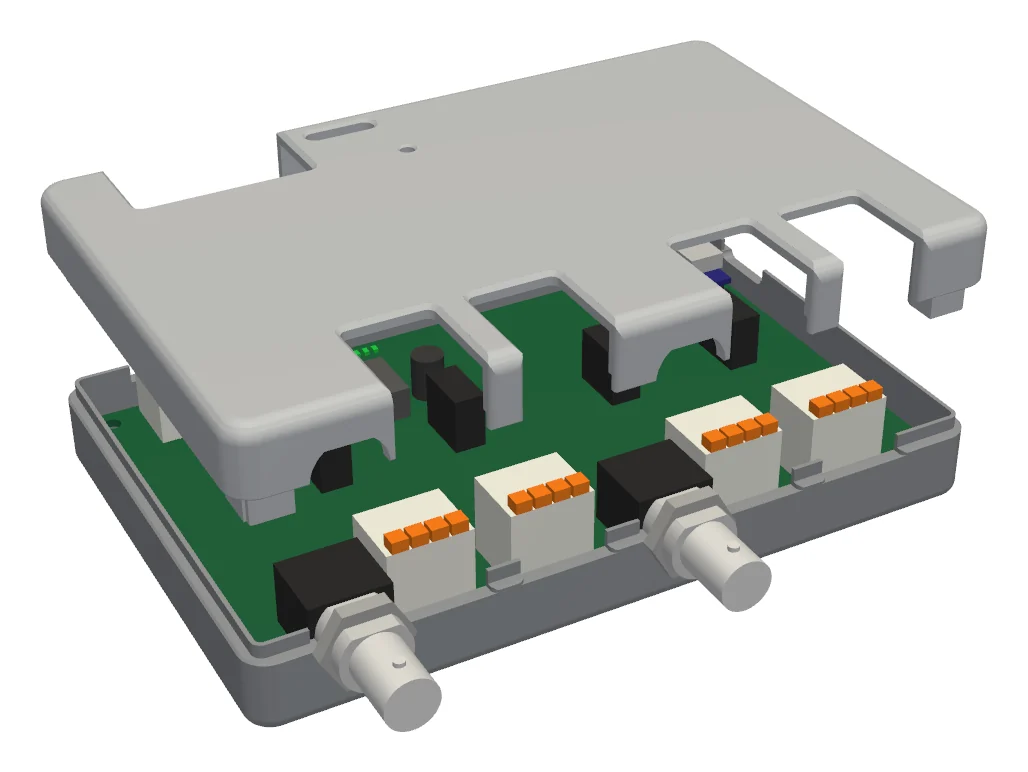
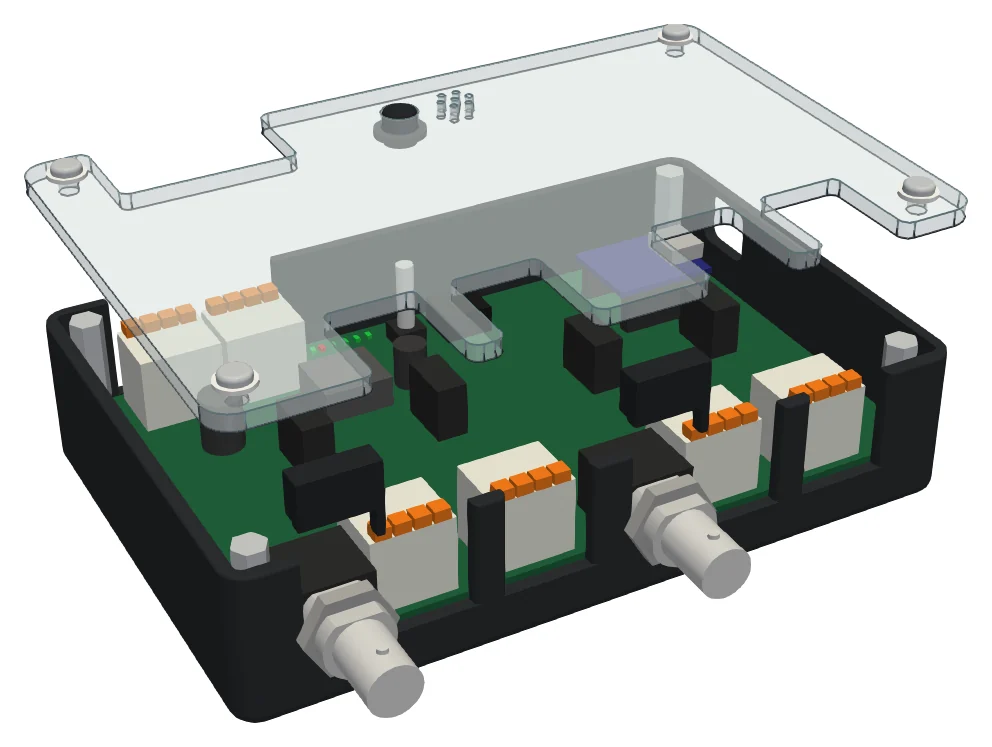
Fertigation page: Rev B (E-stop terminal, button, buzzer, red/green channel lights, coin-cell clock, termination from the app), clear-lid cases

diff --git a/docs/fertigation/fio-8.html b/docs/fertigation/fio-8.html
@@ -139,7 +139,7 @@ footer .logo { height: 28px }
 <div class="wrap">
   <div class="top brand">
     <img class="logo logo-light" src="img/lwv-logo.png" alt="Legacy West Ventures">
-    <span class="rev">Rev A · November 2026</span>
+    <span class="rev">Rev B · November 2026</span>
   </div>
 
   <div class="hero">
@@ -148,7 +148,7 @@ footer .logo { height: 28px }
     <p class="lead">The FIO-8 drives up to eight nutrient dosing pumps from one flow meter. Ten times a second it turns the recipe into a speed for every pump. Each pump output is electrically isolated, and the board stops dosing on its own the moment a reading or a wire looks wrong. It connects to GCU Cloud over Wi-Fi on its own, can report to an on-site GCU Manager, and is set up and run from the GCU Setup app over Bluetooth. Its RS-485 port reads and powers the water-quality probes.</p>
     <figure class="hero-fig">
       <img src="img/fio8-3d-hero.webp" width="1800" height="1107" alt="3D render of the FIO-8 board: a green circuit board with grey push-in terminal blocks along the front and back edges, eight output channels along the front, and black power modules">
-      <figcaption>Rev A, rendered from the production layout with each part's manufacturer 3D model. Pump outputs run along the front edge, field inputs along the back, and an M3 mounting hole sits in each corner.</figcaption>
+      <figcaption>Rendered from the Rev A layout with each part's manufacturer 3D model (Rev B adds the E-stop terminal, the button, the buzzer and the coin-cell clock). Pump outputs run along the front edge, field inputs along the back, and an M3 mounting hole sits in each corner.</figcaption>
     </figure>
   </div>
 
@@ -336,8 +336,9 @@ footer .logo { height: 28px }
 
   <!-- 4 -->
   <section id="safety">
-    <header><span class="kicker">Built to stop safely</span><h2>Two independent stops on every pump</h2></header>
+    <header><span class="kicker">Built to stop safely</span><h2>Two independent stops on every pump, and a stop button that needs no software</h2></header>
     <p class="prose">A pump stops when its 4–20 mA signal drops to 0 mA, and again when the contactor that feeds the pumps' power opens. The contactor is held in by a hardware watchdog. The processor has to keep sending it pulses; if the firmware stops for any reason, the outputs and the contactor drop within about a third of a second with no software involved.</p>
+    <p class="prose">An emergency-stop terminal sits in the same chain. Wire a normally closed stop button to it, or leave the factory link in place. Opening the loop (the button pressed, a wire cut, the terminal empty) breaks the watchdog's pulse path in hardware, so both stops drop exactly as if the processor had stopped, and the firmware cannot hold anything on. The board then sounds its buzzer, shows the stop on its lights and reports it.</p>
     <figure class="diagram">
       <div class="scroll">
       <svg viewBox="0 0 1000 300" role="img" aria-label="Safety chain: the processor sends keep-alive pulses to a hardware watchdog. The watchdog holds two things up: the output driver enable, which feeds the eight pump outputs, and the K1 contactor coil, which feeds pump power. If the pulses stop, both drop in about 0.3 seconds: outputs go to 0 mA and pump power goes off.">
@@ -360,15 +361,17 @@ footer .logo { height: 28px }
         <rect class="box-stop" x="800" y="40" width="172" height="56" rx="10"/><text class="t-stop" x="886" y="64" text-anchor="middle" font-size="13">STOP 1</text><text class="t-s" x="886" y="84" text-anchor="middle">all outputs to 0 mA</text>
         <rect class="box-stop" x="800" y="204" width="172" height="56" rx="10"/><text class="t-stop" x="886" y="228" text-anchor="middle" font-size="13">STOP 2</text><text class="t-s" x="886" y="248" text-anchor="middle">pump power off</text>
         <text class="t-s" x="369" y="238" text-anchor="middle">pulses stop → both drop in ≈ 0.3 s</text>
+        <text class="t-s" x="369" y="262" text-anchor="middle">an open E-stop loop breaks the pulse path</text>
         <text class="t-s" x="105" y="216" text-anchor="middle">any stop rule in the</text>
         <text class="t-s" x="105" y="234" text-anchor="middle">firmware drops both too</text>
       </svg>
       </div>
-      <figcaption>The firmware can stop the pumps; the watchdog makes sure a stalled or crashed processor stops them too.</figcaption>
+      <figcaption>The firmware can stop the pumps; the watchdog makes sure a stalled or crashed processor stops them too, and so does an open E-stop loop.</figcaption>
     </figure>
     <table class="tbl">
       <thead><tr><th>If this happens</th><th>The board</th></tr></thead>
       <tbody>
+        <tr><td>Someone presses the E-stop, or its wire is cut</td><td>Every output goes to 0 mA and the contactor drops within about 0.3 s, in hardware. The buzzer sounds and the stop is reported. Dosing resumes only when the loop is closed and the stop is cleared.</td></tr>
         <tr><td>The processor hangs or restarts</td><td>The watchdog drops the contactor and every output within about 0.3 s. After a crash restart, dosing stays off until someone clears the fault.</td></tr>
         <tr><td>24 V power is lost</td><td>The contactor opens and the outputs go dead. When power returns, the board picks up again from its saved settings.</td></tr>
         <tr><td>Wi-Fi or the internet drops</td><td>Keeps dosing from the saved recipe and sends what it logged when it reconnects. A site can choose to stop after a set outage instead.</td></tr>
@@ -404,7 +407,7 @@ footer .logo { height: 28px }
       <div class="edge bottom" aria-hidden="true"><span style="--x:18.02%">PUMP 1·2</span><span style="--x:36.35%">PUMP 3·4</span><span style="--x:50.36%">CONTACTOR · FLUSH</span><span style="--x:64.02%">PUMP 5·6</span><span style="--x:82.34%">PUMP 7·8</span></div>
       <ol class="legend">
         <li><i>1</i><span><b>Power in.</b> Fuse, reverse-polarity guard, surge clamp and the 5 V supply for the board.</span></li>
-        <li><i>2</i><span><b>RS-485 sensor port.</b> The board is the bus master; 24 V for the probes on its own fuse, and a jumper for the 120 Ω termination.</span></li>
+        <li><i>2</i><span><b>RS-485 sensor port.</b> The board is the bus master; 24 V for the probes on its own fuse. The 120 Ω termination is switched on or off from the app, not with a jumper.</span></li>
         <li><i>3</i><span><b>Input isolation.</b> Optocouplers for the eight dry-contact inputs and the two flow meters.</span></li>
         <li><i>4</i><span><b>Processor.</b> A plug-in Seeed XIAO ESP32-S3 with Wi-Fi and Bluetooth, in two sockets. Its antenna lead runs to the case wall.</span></li>
         <li><i>5</i><span><b>Hardware watchdog</b> that holds the contactor and the output driver.</span></li>
@@ -422,6 +425,7 @@ footer .logo { height: 28px }
         <tr><td>INPUTS 1–4, 5–8</td><td class="mono">1 2 3 4</td><td>Dry contacts: tank floats, a valve-open contact (input 8), door or alarm switches.</td></tr>
         <tr><td>IN COM</td><td class="mono">+24 +24</td><td>The common side of the dry contacts, wetted from the board at 24 V.</td></tr>
         <tr><td>FLOW A · B</td><td class="mono">+ S G  + S G</td><td>Two pulse-output flow meters, powered from the board at 24 V.</td></tr>
+        <tr><td>E-STOP</td><td class="mono">+24 RET</td><td>A normally closed emergency-stop button (or the factory wire link). An open loop stops every pump in hardware.</td></tr>
         <tr><td>PUMP 1·2 … 7·8</td><td class="mono">+ − + −</td><td>The 4–20 mA speed inputs of the dosing pumps, two pumps per block.</td></tr>
         <tr><td>CONTACTOR · FLUSH</td><td class="mono">K1 K1 K2 K2</td><td>K1 switches the 24 V coil of the contactor that feeds the pumps' power. K2 switches the flush or drain valve (60 V, 2 A, AC or DC).</td></tr>
       </tbody>
@@ -458,9 +462,26 @@ footer .logo { height: 28px }
     <div class="note prose"><b>When the network drops</b><span>The recipe, calibration and limits live in the board's own memory, so a feed carries on through a Wi-Fi or internet outage and the records catch up when it reconnects. On site, the GCU Setup app reaches the board over Bluetooth with no network at all. Firmware updates come over Wi-Fi from GCU Cloud.</span></div>
   </section>
 
+  <!-- 6b -->
+  <section id="onboard">
+    <header><span class="kicker">At the board</span><h2>A button, a buzzer and a light for every pump</h2></header>
+    <p class="prose">The board shows what it is doing without a phone. Each pump channel has a red/green light, a buzzer calls attention to anything that needs a person, and one button covers the jobs you do standing in front of it. A real-time clock with its own coin cell keeps every log record correctly time-stamped through a power or network outage.</p>
+    <table class="tbl">
+      <thead><tr><th>Signal</th><th>Meaning</th></tr></thead>
+      <tbody>
+        <tr><td>Channel light green</td><td>That pump is dosing. Blinking: calibration or a cup test is running.</td></tr>
+        <tr><td>Channel light red</td><td>That channel has a fault, such as an open pump loop. Blinking: it needs attention, such as a calibration that is due.</td></tr>
+        <tr><td>Buzzer</td><td>E-stop opened, dosing stopped by a safety rule, a tank float low, a probe fault. Silenced from the app or with a short press of the button.</td></tr>
+        <tr><td>Button, short press</td><td>Identifies the board (the lights chase, one beep) and opens the Bluetooth pairing window for 10 minutes.</td></tr>
+        <tr><td>Button, held 3 s</td><td>Stops dosing locally until it is cleared.</td></tr>
+        <tr><td>Button, held 10 s</td><td>Resets the network settings; three beeps confirm.</td></tr>
+      </tbody>
+    </table>
+  </section>
+
   <!-- 7 -->
   <section id="specs">
-    <header><span class="kicker">Specifications</span><h2>Rev A at a glance</h2></header>
+    <header><span class="kicker">Specifications</span><h2>Rev B at a glance</h2></header>
     <table class="tbl">
       <tbody>
         <tr><td>Power</td><td>24 V DC ±10 %, about 0.3 A plus sensor power. Fused, reverse-polarity protected, surge clamped.</td></tr>
@@ -470,11 +491,14 @@ footer .logo { height: 28px }
         <tr><td>Contact inputs</td><td>8 dry contacts, 24 V wetting, optocoupled.</td></tr>
         <tr><td>Contacts out</td><td>2 solid-state contacts, 60 V, 2 A, AC or DC, each fused, with contact feedback. K1 is held by the hardware watchdog.</td></tr>
         <tr><td>Network</td><td>Wi-Fi to GCU Cloud and the GCU Manager; Bluetooth LE for the GCU Setup app. Firmware updates over Wi-Fi.</td></tr>
-        <tr><td>Sensor port</td><td>RS-485, Modbus RTU master, 24 V sensor supply on its own 0.5 A fuse, jumper for the 120 Ω termination.</td></tr>
+        <tr><td>Sensor port</td><td>RS-485, Modbus RTU master, 24 V sensor supply on its own 0.5 A fuse, 120 Ω termination switched from the app.</td></tr>
+        <tr><td>Emergency stop</td><td>Terminal for a normally closed stop loop, optocoupled; opening it drops every output and the contactor in hardware.</td></tr>
+        <tr><td>On the board</td><td>A push button, a buzzer, a red/green light per pump channel and six status lights.</td></tr>
+        <tr><td>Clock</td><td>Real-time clock with a coin-cell backup (CR1220), set from the network or the phone.</td></tr>
         <tr><td>Processor</td><td>Plug-in Seeed XIAO ESP32-S3 (Wi-Fi, Bluetooth LE), antenna lead to the case wall.</td></tr>
         <tr><td>Board</td><td>132 × 84 mm, 4 layers, four M3 mounting holes, 26 test points.</td></tr>
         <tr><td>Terminals</td><td>Push-in terminal blocks, 3.5 mm pitch.</td></tr>
-        <tr><td>Enclosure</td><td>DIN-rail case with the I/O labels printed on it.</td></tr>
+        <tr><td>Enclosure</td><td>Black DIN-rail case with a clear cover; the I/O labels go on as stickers.</td></tr>
       </tbody>
     </table>
     <div class="note prose"><b>Water quality on the sensor port</b><span>The companion FIO-WQ board, below, measures pH and EC on the board itself, each channel in its own isolated circuit, and plugs into the FIO-8's RS-485 port at its own address on the FIO-8's 24 V.</span></div>
@@ -486,7 +510,7 @@ footer .logo { height: 28px }
     <p class="lead">The FIO-WQ reads two pH electrodes and two conductivity cells, each with its own temperature probe, and hands the readings to the FIO-8 over one four-wire cable. Each of the four measurement circuits is electrically isolated from the others and from the bus, so probes in the same water do not disturb each other and a wiring fault on one stays on one. It checks its own electrodes before it trusts them. The board itself stays dry on the DIN rail: the pH electrodes and conductivity cells sit in the water line, in a tee or a flow cell, and their cables run back to the jacks and terminals.</p>
     <figure class="hero-fig">
       <img src="img/fiowq-3d-hero.webp" width="1222" height="771" alt="3D render of the FIO-WQ board: a green circuit board with two BNC jacks and four push-in terminal blocks along the front edge, two bus terminal blocks and a row of status lights along the back, and a plug-in processor module at the right end">
-      <figcaption>Rev A, rendered from the production layout with simplified part bodies. The two pH BNC jacks and the probe terminals sit along the front edge; bus in and out and the status lights along the back. Same 132 × 84 mm outline and mounting holes as the FIO-8.</figcaption>
+      <figcaption>Rendered from the Rev A layout with simplified part bodies (Rev B adds the button, the buzzer and the coin-cell clock along the bus edge). The two pH BNC jacks and the probe terminals sit along the front edge; bus in and out and the status lights along the back. Same 132 × 84 mm outline and mounting holes as the FIO-8.</figcaption>
     </figure>
     <div class="facts" role="list">
       <div class="fact" role="listitem"><b>2</b><span>pH inputs on BNC, glass and reference</span></div>
@@ -568,7 +592,8 @@ footer .logo { height: 28px }
         <tr><td>Bus</td><td>RS-485 Modbus RTU on the FIO-8's sensor port, at its own address, with the bus passed through to further sensors. Readings and probe health appear in GCU Cloud next to the FIO-8's dosing.</td></tr>
         <tr><td>Power</td><td>24 V from the FIO-8's sensor port, under 1 W typical. Fused and reverse-polarity protected.</td></tr>
         <tr><td>Processor</td><td>Plug-in Seeed XIAO module in two sockets; USB-C for service.</td></tr>
-        <tr><td>Board</td><td>132 × 84 mm, 4 layers, 240 parts, the FIO-8's four M3 mounting holes and case family.</td></tr>
+        <tr><td>On the board</td><td>A push button, a buzzer, a red/green light per measurement channel, bus and fault lights, and a real-time clock with a coin-cell backup. The RS-485 termination is switched from the app (off by default: the FIO-WQ usually sits mid-bus).</td></tr>
+        <tr><td>Board</td><td>132 × 84 mm, 4 layers, 261 parts, the FIO-8's four M3 mounting holes and case family.</td></tr>
       </tbody>
     </table>
   </section>
@@ -576,22 +601,22 @@ footer .logo { height: 28px }
   <!-- 9 -->
   <section id="enclosures">
     <header><span class="kicker">Enclosures</span><h2>Printed DIN-rail cases</h2></header>
-    <p class="prose">Both boards share one case family: a base tray and a cover, printed in ASA with rounded corners and edges, clipped to 35 mm DIN rail. The terminal ends are open, so wires drop straight into the push-in blocks and the levers flip outward with the cover on. The roof is a plain surface: the I/O labels go on as printed stickers, and the four M3 screws that hold board, base and cover together are countersunk underneath.</p>
+    <p class="prose">Both boards share one case family: a black base tray printed in ASA with rounded corners, and a flat 3 mm clear polycarbonate cover, so the board and its lights show through. The case clips to 35 mm DIN rail. The walls open in front of both terminal rows, from the board up, so wires go straight into the push-in blocks and the levers flip outward with the cover on. The button is pressed through the cover by a printed plunger, the buzzer sounds through a small port above it, and the clock's coin cell is changed through a hatch in the floor. The I/O labels go on as stickers.</p>
     <div class="pair">
-      <figure class="map"><img src="img/case-fio8-iso.webp" width="1466" height="924" alt="Render of the FIO-8 in its grey printed DIN-rail case with rounded corners: pump terminals along the front, the sensor and bus terminals along the back, round windows for the channel lights and the status column"><figcaption>FIO-8 case. Pump outputs along the front, inputs and bus along the back, a round window per channel light and for the status column. Labels go on as stickers.</figcaption></figure>
-      <figure class="map"><img src="img/case-fiowq-iso.webp" width="1089" height="718" alt="Render of the FIO-WQ in its light grey printed DIN-rail case with rounded corners: two BNC jacks through the front wall between the probe terminal blocks, bus terminals and the status light slot along the back"><figcaption>FIO-WQ case. The two BNC jacks pass through the front wall and are held by their own panel nuts; the probe terminals sit beside them.</figcaption></figure>
+      <figure class="map"><img src="img/case-fio8-iso.webp" width="1434" height="948" alt="Render of the FIO-8 in its black printed DIN-rail case with a clear cover: the board visible through the cover, pump terminals along the front, sensor and bus terminals along the back, the button at the right end"><figcaption>FIO-8 case. Pump outputs along the front, inputs, bus and the E-stop along the back; the board, its lights and the button under the clear cover.</figcaption></figure>
+      <figure class="map"><img src="img/case-fiowq-iso.webp" width="1060" height="731" alt="Render of the FIO-WQ in its black printed DIN-rail case with a clear cover: two BNC jacks through the front wall between the probe terminal blocks, bus terminals along the back, the board visible through the cover"><figcaption>FIO-WQ case. The two BNC jacks pass through the front wall and are held by their own panel nuts; the probe terminals sit beside them.</figcaption></figure>
     </div>
     <div class="pair">
-      <figure class="map"><img src="img/case-fio8-exploded.webp" width="1466" height="1215" alt="Exploded render of the FIO-8 case: the cover lifted above the board and the base tray"><figcaption>FIO-8 case, cover lifted.</figcaption></figure>
-      <figure class="map"><img src="img/case-fiowq-exploded.webp" width="1028" height="772" alt="Exploded render of the FIO-WQ case: the cover lifted above the board and the base tray"><figcaption>FIO-WQ case, cover lifted.</figcaption></figure>
+      <figure class="map"><img src="img/case-fio8-exploded.webp" width="1434" height="1195" alt="Exploded render of the FIO-8 case: the clear cover lifted above the board and the black base tray"><figcaption>FIO-8 case, cover lifted.</figcaption></figure>
+      <figure class="map"><img src="img/case-fiowq-exploded.webp" width="992" height="747" alt="Exploded render of the FIO-WQ case: the clear cover lifted above the board and the black base tray"><figcaption>FIO-WQ case, cover lifted.</figcaption></figure>
     </div>
     <table class="tbl">
       <tbody>
-        <tr><td>Material</td><td>ASA, printed in two parts (base and cover), 2.6 mm walls, no supports. Labels as stickers.</td></tr>
+        <tr><td>Material</td><td>Black ASA base tray, printed without supports; flat 3 mm clear polycarbonate cover, cut to shape. Labels as stickers.</td></tr>
         <tr><td>Mounting</td><td>35 mm DIN rail clip under the base. The board is held by four M3 screws through its own mounting holes.</td></tr>
-        <tr><td>FIO-8 case</td><td>138 × 90 × 31 mm, 8 DIN modules. A round window over each channel light and the status column, with optional translucent light pipes; the USB-C port reachable through the end wall.</td></tr>
-        <tr><td>FIO-WQ case</td><td>138 × 91 × 26 mm, 8 DIN modules. BNC jacks through the front wall on the base-to-cover seam, held by their own panel nuts; one slot for the status lights.</td></tr>
-        <tr><td>Wiring</td><td>Open terminal ends; levers reachable with the cover on. USB-C notch on the end wall.</td></tr>
+        <tr><td>FIO-8 case</td><td>138 × 90 × 33 mm, 8 DIN modules. The lights show through the cover; button plunger and buzzer port in the cover; coin-cell hatch in the floor; USB-C through the end wall.</td></tr>
+        <tr><td>FIO-WQ case</td><td>138 × 91 × 33 mm, 8 DIN modules. BNC jacks through the front wall, held by their own panel nuts; button plunger and buzzer port in the cover; coin-cell hatch in the floor.</td></tr>
+        <tr><td>Wiring</td><td>The walls open in front of the terminal rows; levers reachable with the cover on.</td></tr>
       </tbody>
     </table>
   </section>
